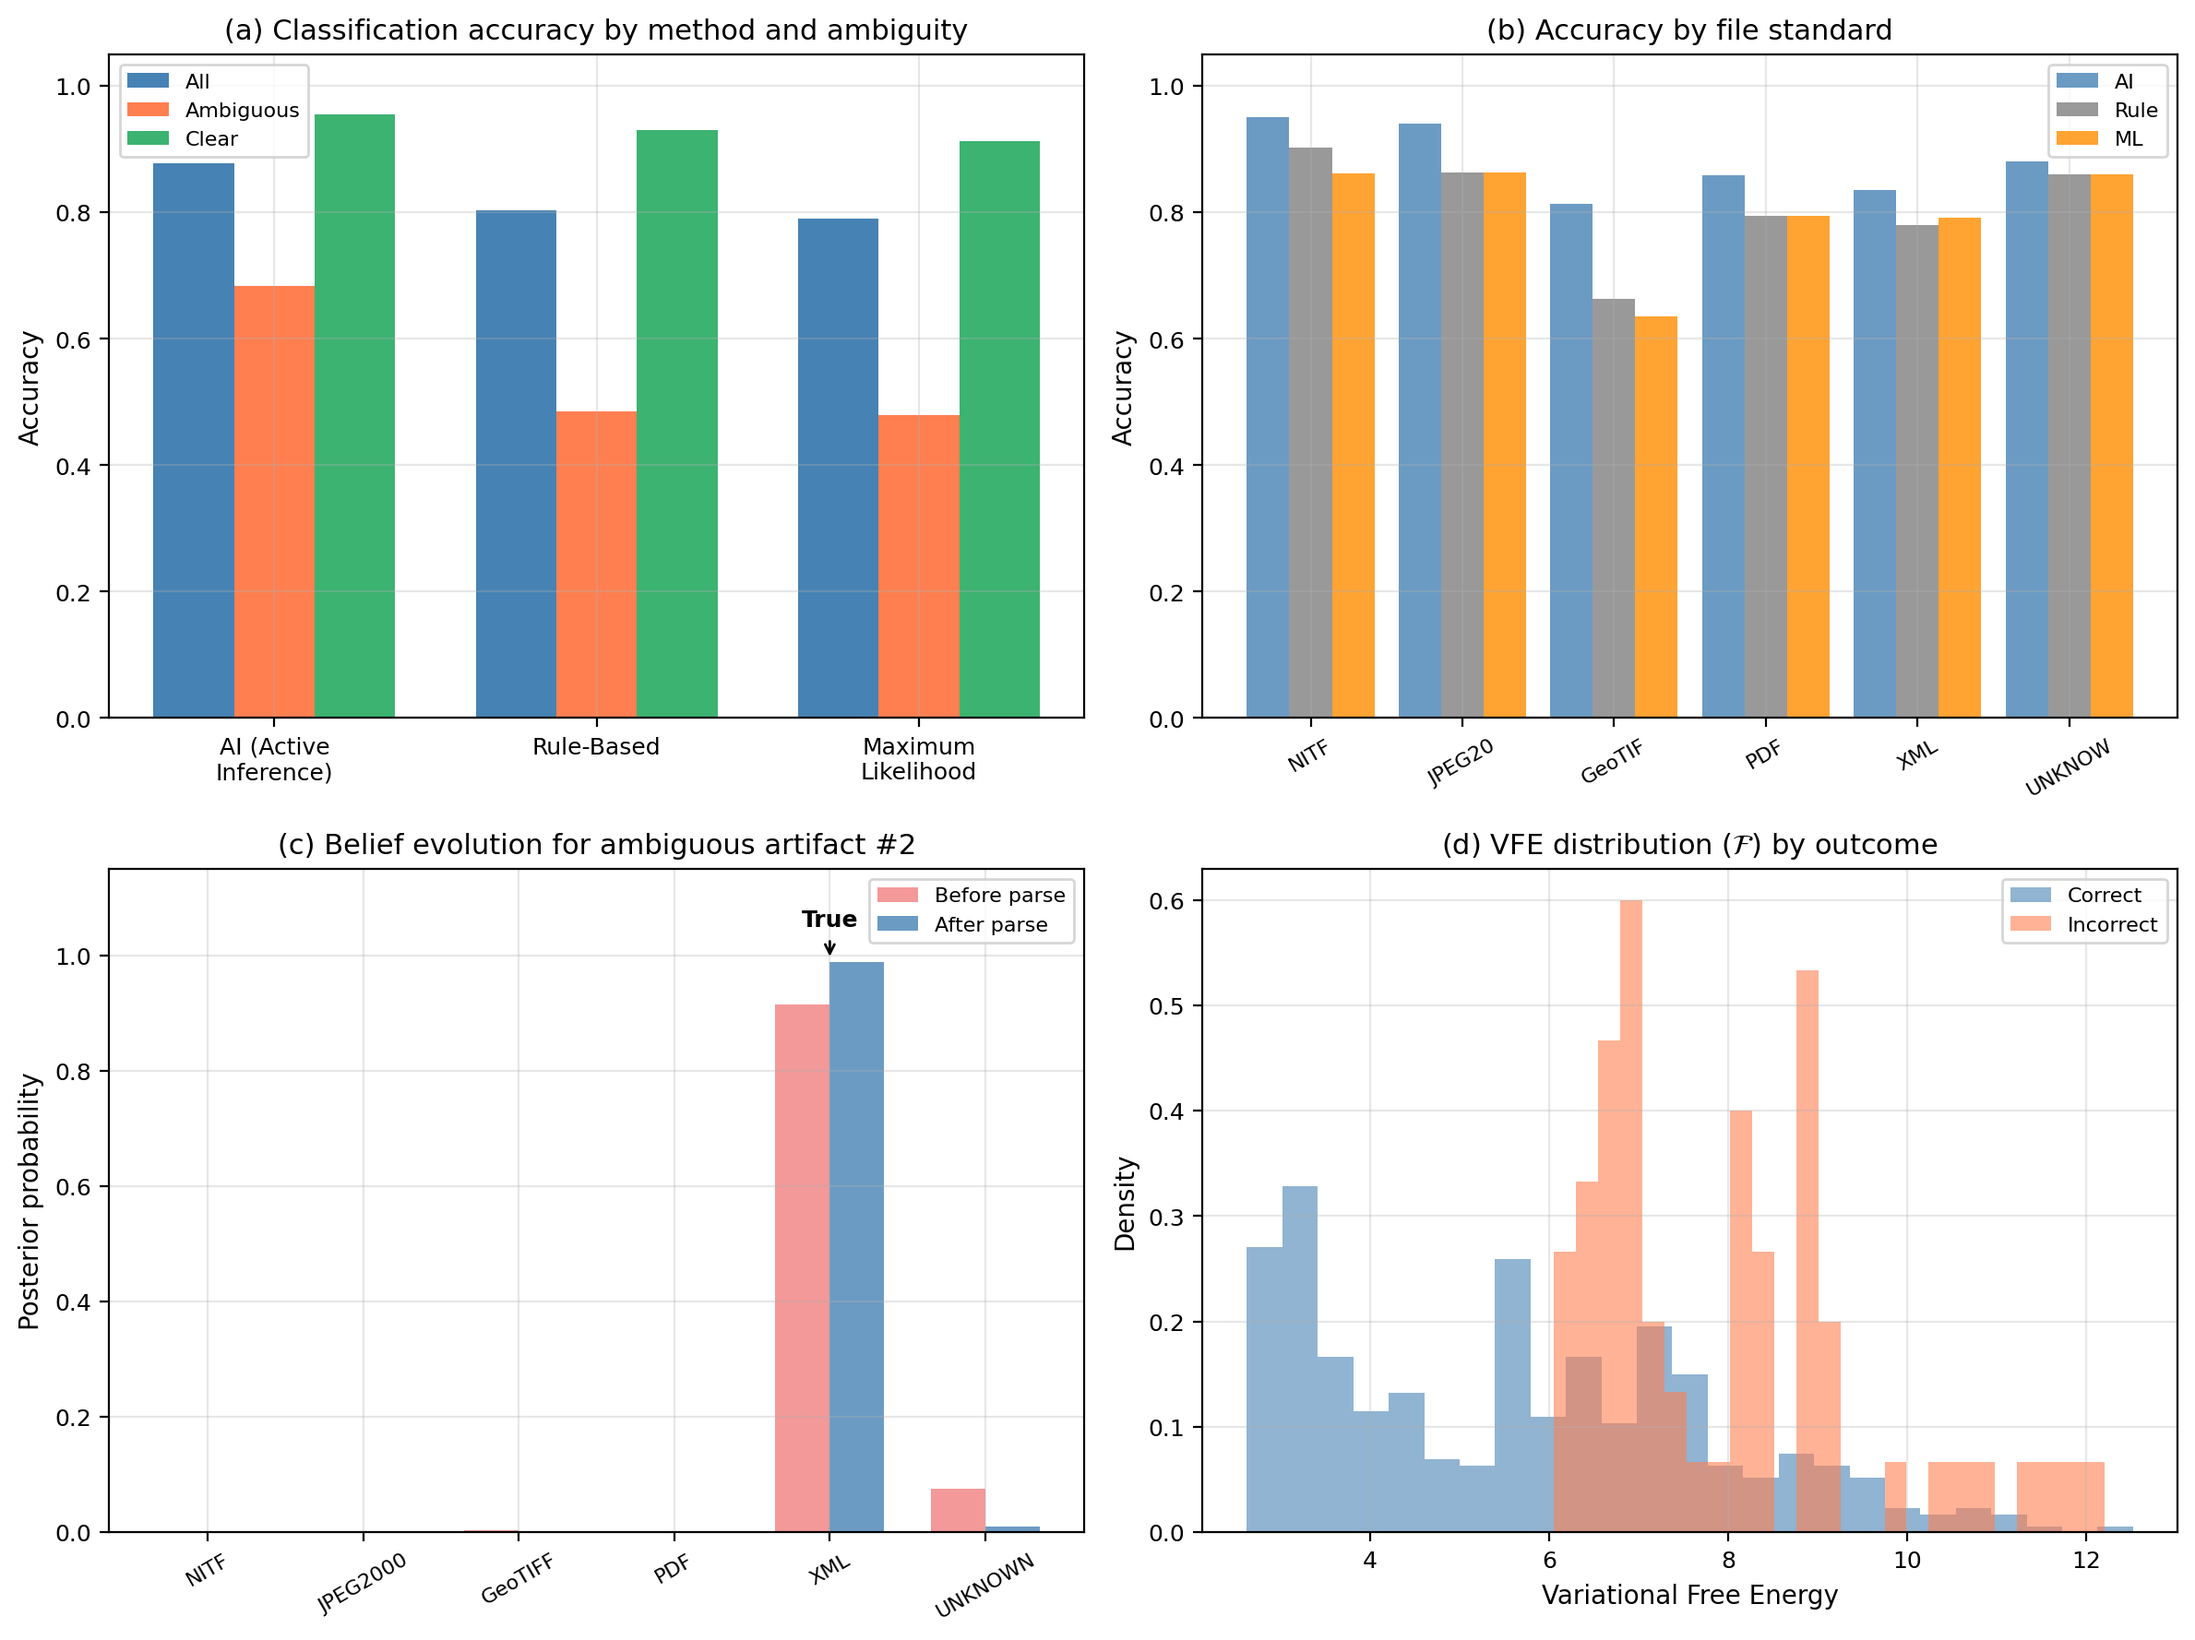
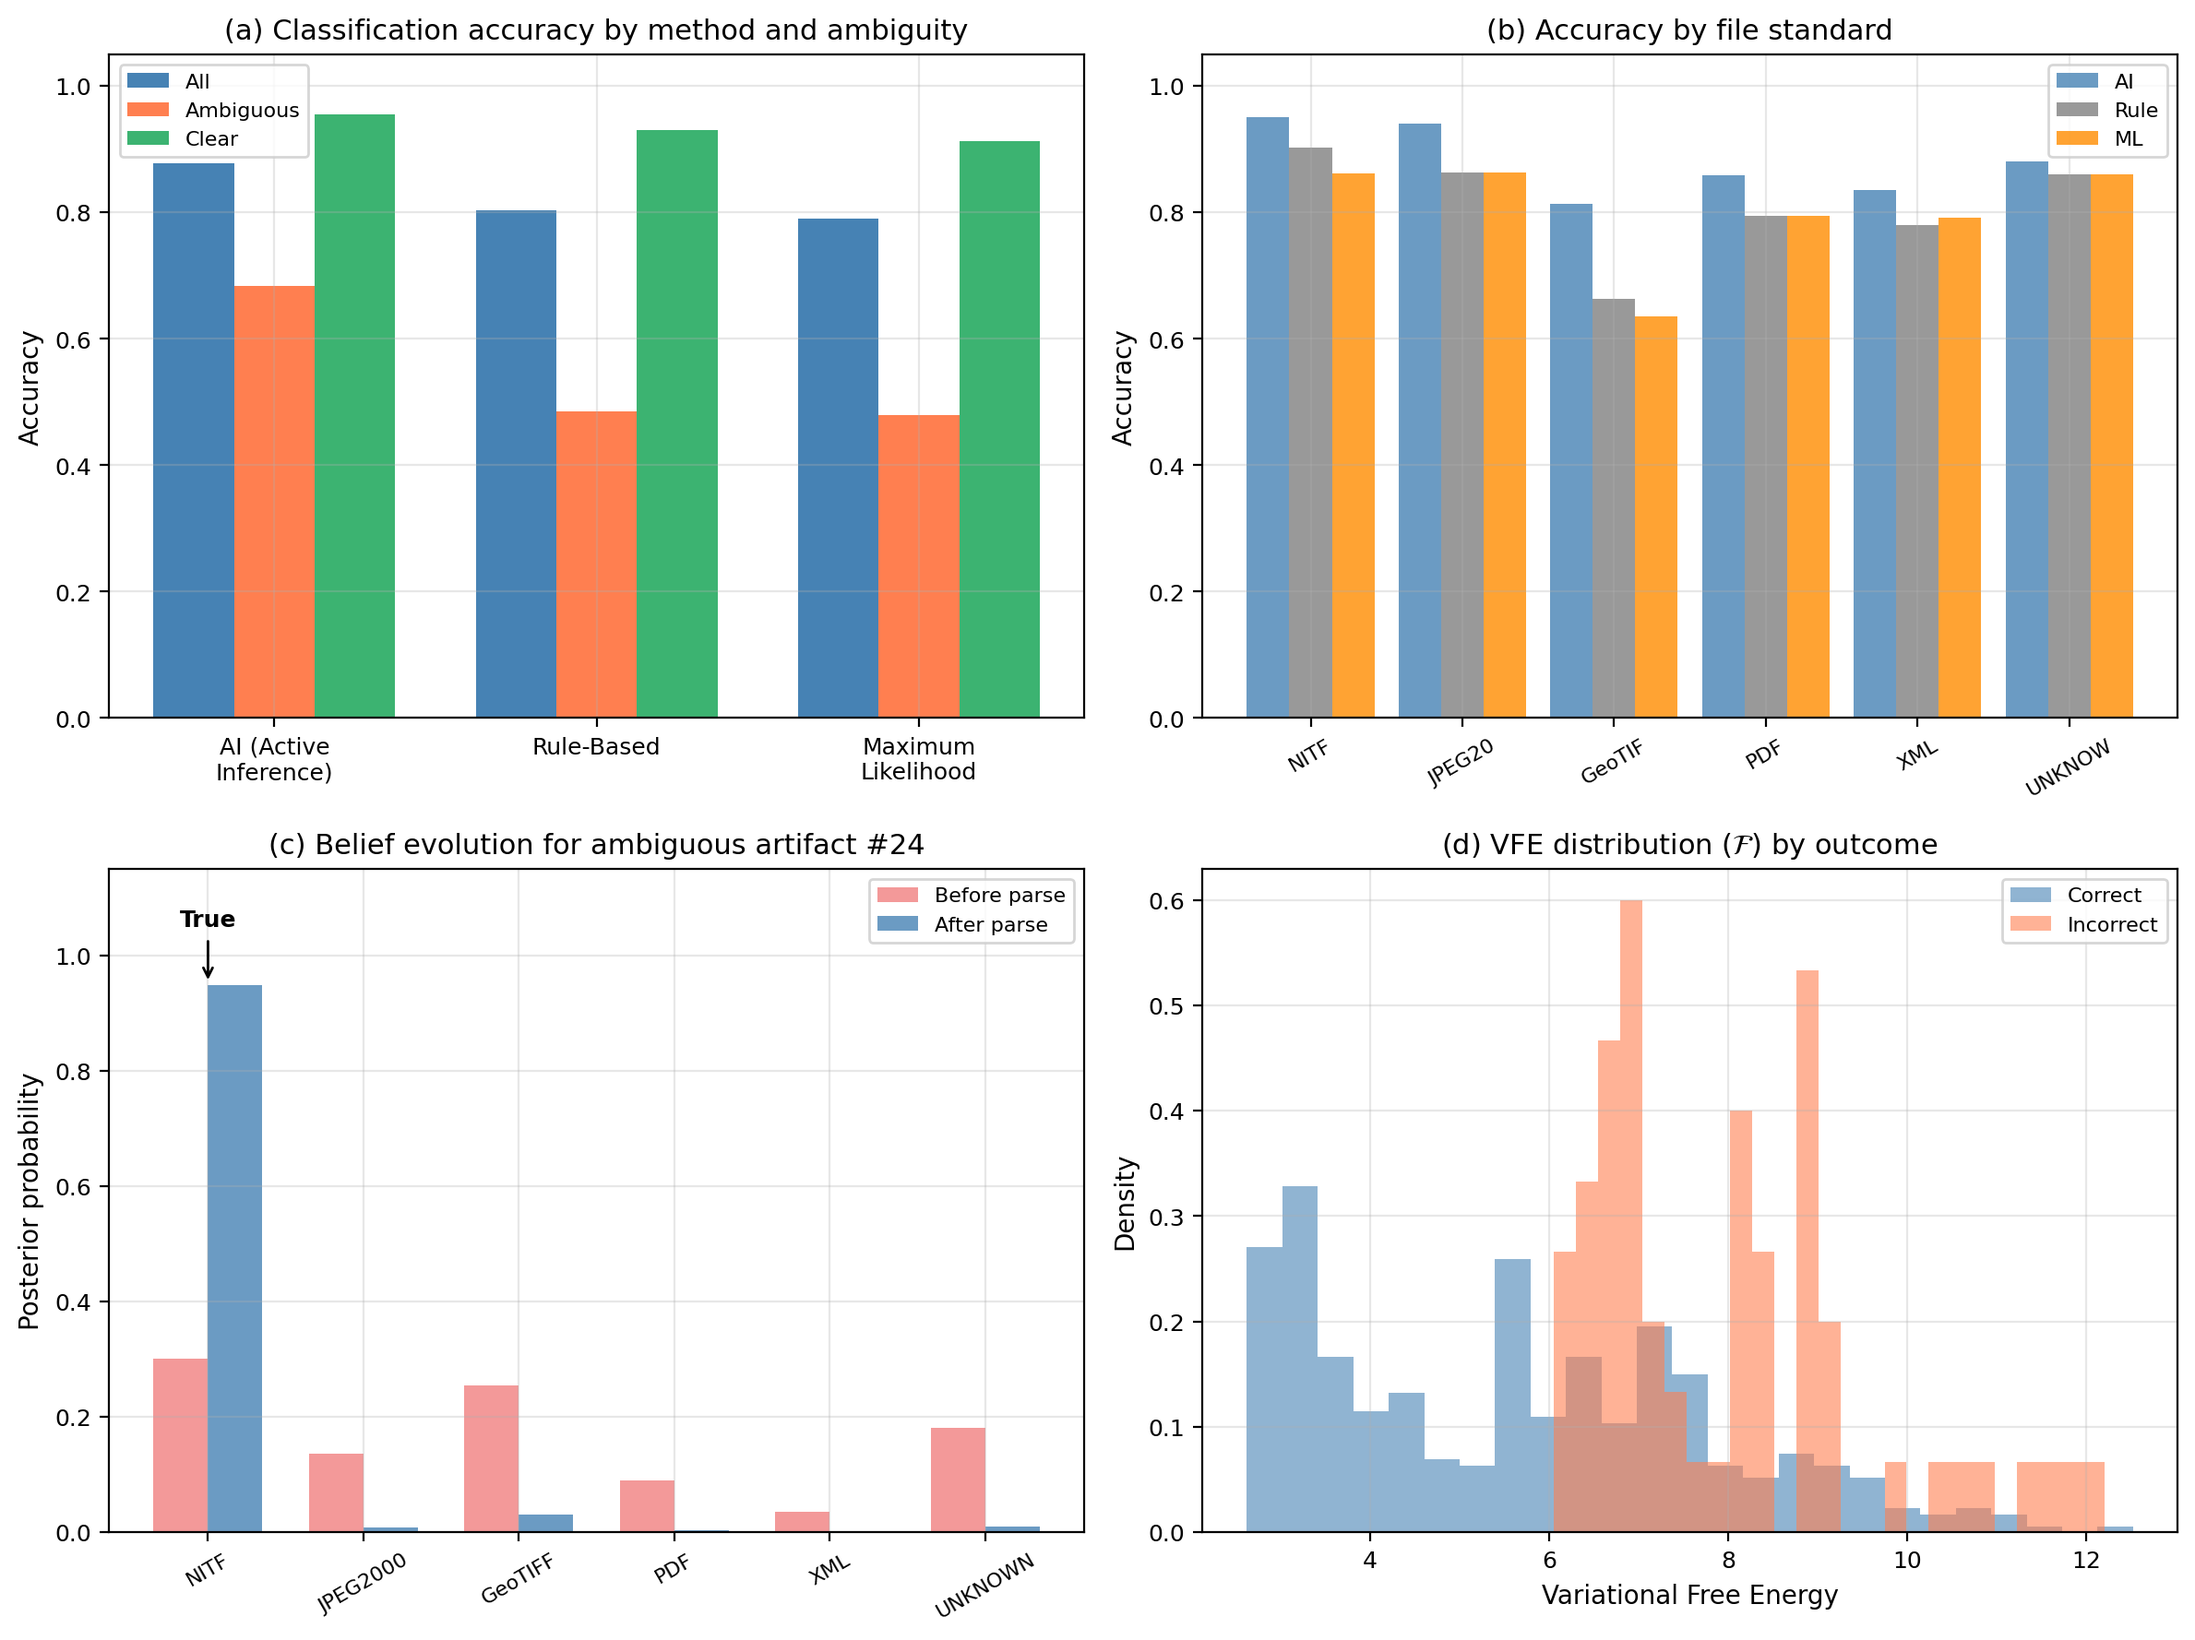
Fix exp1 panel (c): select genuinely ambiguous example for belief evolution
Require Phase 1 max posterior < 0.55 and pick the highest-entropy example,
so the figure shows genuine ambiguity resolution (spread beliefs → confident
after parse) rather than error correction (confident wrong → confident right).

diff --git a/paper/simulation/exp1_asd.py b/paper/simulation/exp1_asd.py
@@ -399,12 +399,15 @@ def run_experiment_1(seed=42):
     results['artifacts'] = artifacts
     results['is_ambiguous'] = is_ambiguous
 
-    # Save one ambiguous example where AI correctly resolved via parse
+    # Save one ambiguous example where AI correctly resolved via parse.
+    # Require genuinely uncertain Phase 1 beliefs (max posterior < 0.60)
+    # so the figure shows ambiguity resolution, not error correction.
     results['example_beliefs'] = None
+    best_example = None
+    best_entropy = -1
     for i, art in enumerate(artifacts):
         if (art['is_ambiguous'] and results['ai']['correct'][i]
                 and results['ai']['actions'][i] == REQUEST_PARSE):
-            # Re-run this artifact to capture Phase 1 and Phase 2 beliefs
             obs_init = [art['obs_magic'], art['obs_ext'], N_PARSE - 1, art['obs_size']]
             example_wave = InferenceWave(
                 A_np=[A_magic_2f, A_ext_2f, A_parse_2f, A_size_2f],
@@ -414,7 +417,12 @@ def run_experiment_1(seed=42):
                 use_states_info_gain=True,
             )
             qs1, _, _, _ = example_wave.infer(obs_init)
-            phase1_belief = qs1[1].copy()  # standard factor
+            phase1_belief = qs1[1].copy()
+
+            # Skip if Phase 1 is already confidently right or wrong
+            phase1_max = float(np.max(phase1_belief))
+            if phase1_max > 0.55:
+                continue
 
             obs_parsed = [art['obs_magic'], art['obs_ext'],
                           art['obs_parse_if_requested'], art['obs_size']]
@@ -422,13 +430,18 @@ def run_experiment_1(seed=42):
             qs2, _, _, _ = example_wave.infer(obs_parsed, empirical_prior=emp_p)
             phase2_belief = qs2[1].copy()
 
-            results['example_beliefs'] = {
-                'phase1': phase1_belief,
-                'phase2': phase2_belief,
-                'true_standard': art['true_standard'],
-                'idx': i,
-            }
-            break
+            # Prefer examples with highest Phase 1 entropy (most uncertain)
+            from common import entropy_H
+            h = entropy_H(phase1_belief)
+            if h > best_entropy:
+                best_entropy = h
+                best_example = {
+                    'phase1': phase1_belief,
+                    'phase2': phase2_belief,
+                    'true_standard': art['true_standard'],
+                    'idx': i,
+                }
+    results['example_beliefs'] = best_example
 
     return results
 
